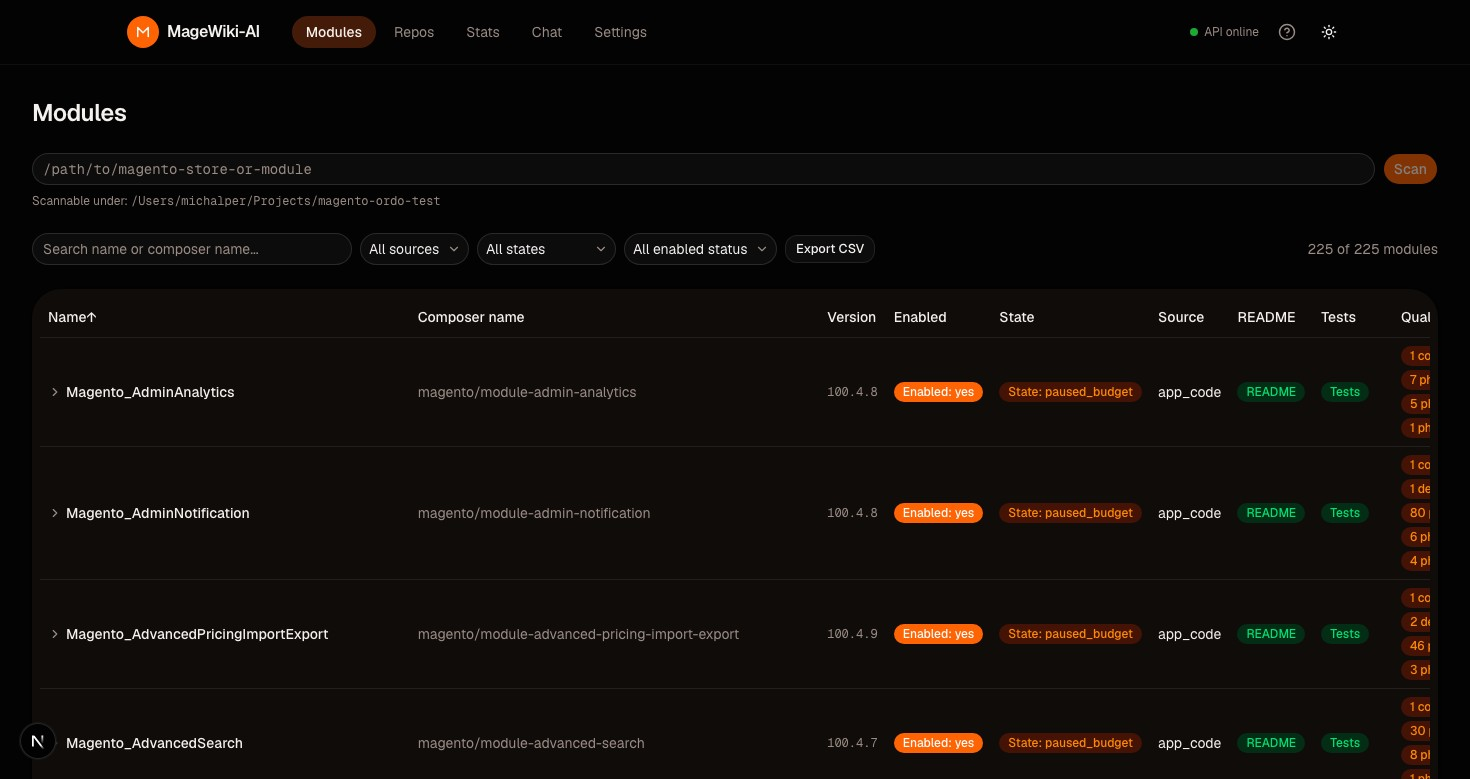
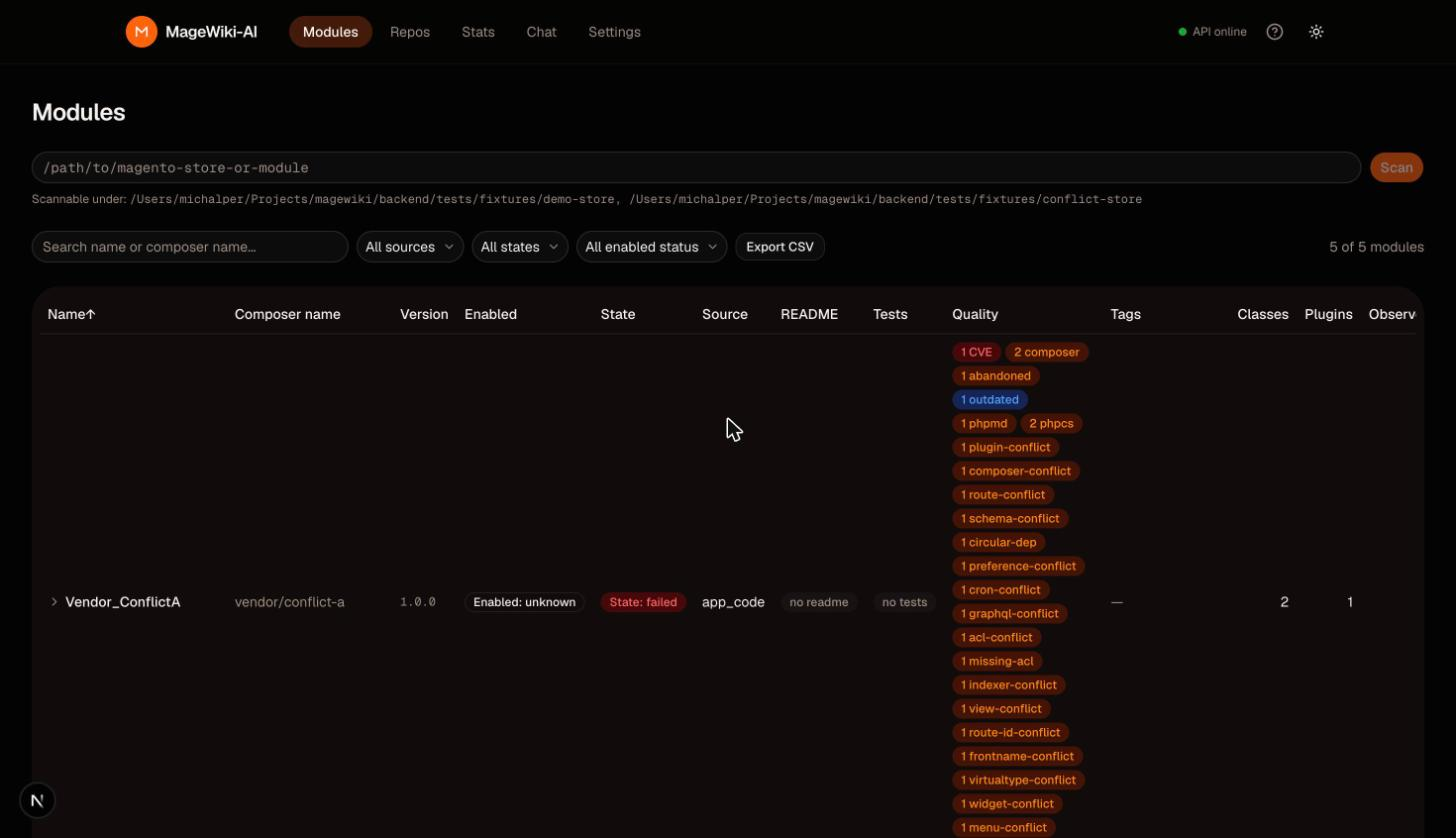
Docs freshness: sync README conflict-check list, add Phase 24/25 rows, refresh screenshots
README's "Cross-module conflict detection" section said "these fifteen"
and was missing menu_item_id_conflict/cache_type_conflict (Phase 25); the
phase checklist stopped at 23. docs/screenshots/modules.jpg and stats.jpg
were last captured before Phases 19-26 and missed the newer conflict
badges and the fleet-trend chart -- recaptured against a real local stack
seeded from the committed demo-store/conflict-store fixtures.

Also strengthens CLAUDE.md's Working Method: every new feature now
explicitly requires both 100% unit-test coverage and real e2e coverage,
not just "tests alongside code."

diff --git a/.claude/skills/project-decision-log/SKILL.md b/.claude/skills/project-decision-log/SKILL.md
@@ -3365,3 +3365,47 @@ dalej?" research pass (candidate 1, the strongest finding, and candidate
   `tsc`/`eslint`/`vitest` (265 passed, unchanged -- nothing references the
   new fields yet) clean. No migration, no real-stack Playwright run needed
   -- no new scanning behavior, no new UI/e2e-visible journey.
+
+**Docs-freshness pass: README conflict-check list + screenshots refreshed
+(recorded 2026-11-14):** a "what's next" research round found two genuine,
+self-flagged gaps rather than any new feature scope. (1) README's
+"Cross-module conflict detection" section said "these fifteen" and
+listed 15 bullets, but the real `CHECK_TYPES` list had grown to 17
+fleet-wide conflict check_types since Phase 19 first flagged this exact
+section as going stale -- missing `menu_item_id_conflict`/
+`cache_type_conflict` (Phase 25) entirely. Fixed the count and added both
+bullets. Also found and fixed a second, bigger gap the research pass
+itself didn't check: the README's own `[x] Phase N` checklist stopped at
+Phase 23 -- Phases 24 and 25 (both real, numbered CLAUDE.md phases) were
+missing rows; added them. (Phase 26 stayed decision-log-only, matching
+how the earlier `find_similar_modules`-tool/duplicate-pairs-view additions
+were never added to this checklist either -- the checklist's own
+convention is numbered phases only.)
+
+(2) `docs/screenshots/modules.jpg`/`stats.jpg` were last captured
+2026-11-10, predating Phases 19-26 -- missing the newer conflict badges,
+the Phase 21 similar-modules/compare additions, and the Phase 22b
+fleet-trend chart. Recaptured against a real, running local stack, same
+`.env`-swap-to-local-docker protocol as every real-stack verification
+this session (backed up to the scratchpad, replaced with a safe local
+version pointing both scan roots at the committed `demo-store`/
+`conflict-store` fixtures, restored and diffed byte-for-byte afterward).
+Seeded via the same `POST /scan` + `packagist_cache`-seeding calls
+`global-setup.ts` already uses for e2e, then captured via
+`claude-in-chrome` rather than Playwright (a one-off capture task, not a
+repeatable test). The resulting `modules.jpg` is admittedly busier than
+the original (Vendor_ConflictA alone carries ~20 badges, since the
+conflict-store fixture is deliberately dense to exercise every check) --
+accepted as a fair tradeoff: this is the same safe, already-approved test
+data this project uses everywhere else, and a screenshot showing real
+depth of checks is a reasonable thing for a portfolio project to show off,
+not a defect to fix.
+
+Also updated CLAUDE.md's own Working Method section per an explicit user
+request mid-session: "every new feature needs both 100% unit-test coverage
+and real e2e coverage" -- strengthens the existing "require tests alongside
+code" bullet from a vague requirement into the two concrete bars this
+project has in fact been holding itself to since the 100%-coverage-in-CI
+decision (`codecov.yml`) and the per-phase Playwright-coverage discipline,
+making both an explicit, standing rule rather than something a future
+session would need to re-derive from precedent alone.

diff --git a/README.md b/README.md
@@ -193,7 +193,7 @@ tool-calling both ran) — with no `ANTHROPIC_API_KEY`/`OPENAI_API_KEY`/
 
 ## Cross-module conflict detection
 
-Every quality check above looks at one module at a time. These fifteen look
+Every quality check above looks at one module at a time. These seventeen look
 across the whole scanned fleet for a pair of modules that silently fight over
 the same thing — all free, parser-derived, zero AI involved:
 
@@ -244,6 +244,14 @@ the same thing — all free, parser-derived, zero AI involved:
 - **widget.xml id conflicts** — two modules declaring a widget with the same
   id; Magento merges every module's widget table into one global namespace
   by id, the same silent-override risk as the indexer case above.
+- **menu.xml id conflicts** — two modules declaring the same admin menu item
+  id. Unlike every other check here, this one is a confirmed hard Magento
+  error ("Two 'add' commands cannot have equal id"), not a silent override —
+  kept the same severity as the rest of this family for consistency.
+- **cache.xml type conflicts** — two modules declaring the same cache type
+  name with a different backing `instance`; a module that only overrides
+  cosmetic attributes (label/description) without setting `instance` isn't
+  flagged, since that's a real, intentional override pattern.
 
 A separate, per-module **missing ACL** check flags a `Controller/Adminhtml/*`
 class with no resolvable `ADMIN_RESOURCE` constant — that admin action is
@@ -323,6 +331,8 @@ network-isolated container.
 - [x] **Phase 21** — Semantic duplicate/overlap detection (reusing Phase 4's existing module-level embeddings, no new scan or API call) plus a side-by-side module comparison page
 - [x] **Phase 22** — Cross-module conflict detection, round 5: `routes.xml` facts, a route-id conflict check, and a frontName conflict check, both scoped per area
 - [x] **Phase 23** — Cross-module conflict detection, round 6: `widget.xml` facts (no area column -- widget ids are a single global namespace) and a duplicate-widget-id conflict check
+- [x] **Phase 24** — Lightweight access gate (shared token) on write/cost-incurring endpoints (`POST /chat`, `PATCH /settings/llm`, `POST /scan[/stream]`) — lets an operator safely enable a real LLM key on the public demo without open budget exposure; read-only browsing stays open
+- [x] **Phase 25** — Cross-module conflict detection, round 7: `menu.xml` admin-menu-item-id conflicts (a confirmed hard Magento error, kept the same severity as the rest of this family) and `cache.xml` type conflicts (only when the backing `instance` disagrees)
 
 Full detail (done-criteria, data model, RAG design, and the decision recorded behind each phase) per phase: see `CLAUDE.md`.
 

diff --git a/CLAUDE.md b/CLAUDE.md
@@ -160,7 +160,7 @@ The author previously built a PHP tool for his employer Cognize — the predeces
 ## Working method
 
 - Start each phase in plan mode; propose a plan and wait for approval before writing code.
-- Require tests alongside code (fixture: a small module under `backend/tests/fixtures/`).
+- Require tests alongside code (fixture: a small module under `backend/tests/fixtures/`). Every new feature needs both 100% unit-test coverage (backend `pytest`/frontend `vitest`, enforced in CI via `codecov.yml`'s project+patch targets) and real Playwright e2e coverage of its user-visible behavior — not just one or the other.
 - Reset context between phases.
 - Record settled, always-relevant rule changes in this file. Record incident write-ups, bug fixes, and narrower per-feature decision rationale in the `project-decision-log` skill, as they're made.
 - Repo language is English: README, docs, comments, commit messages, UI.
